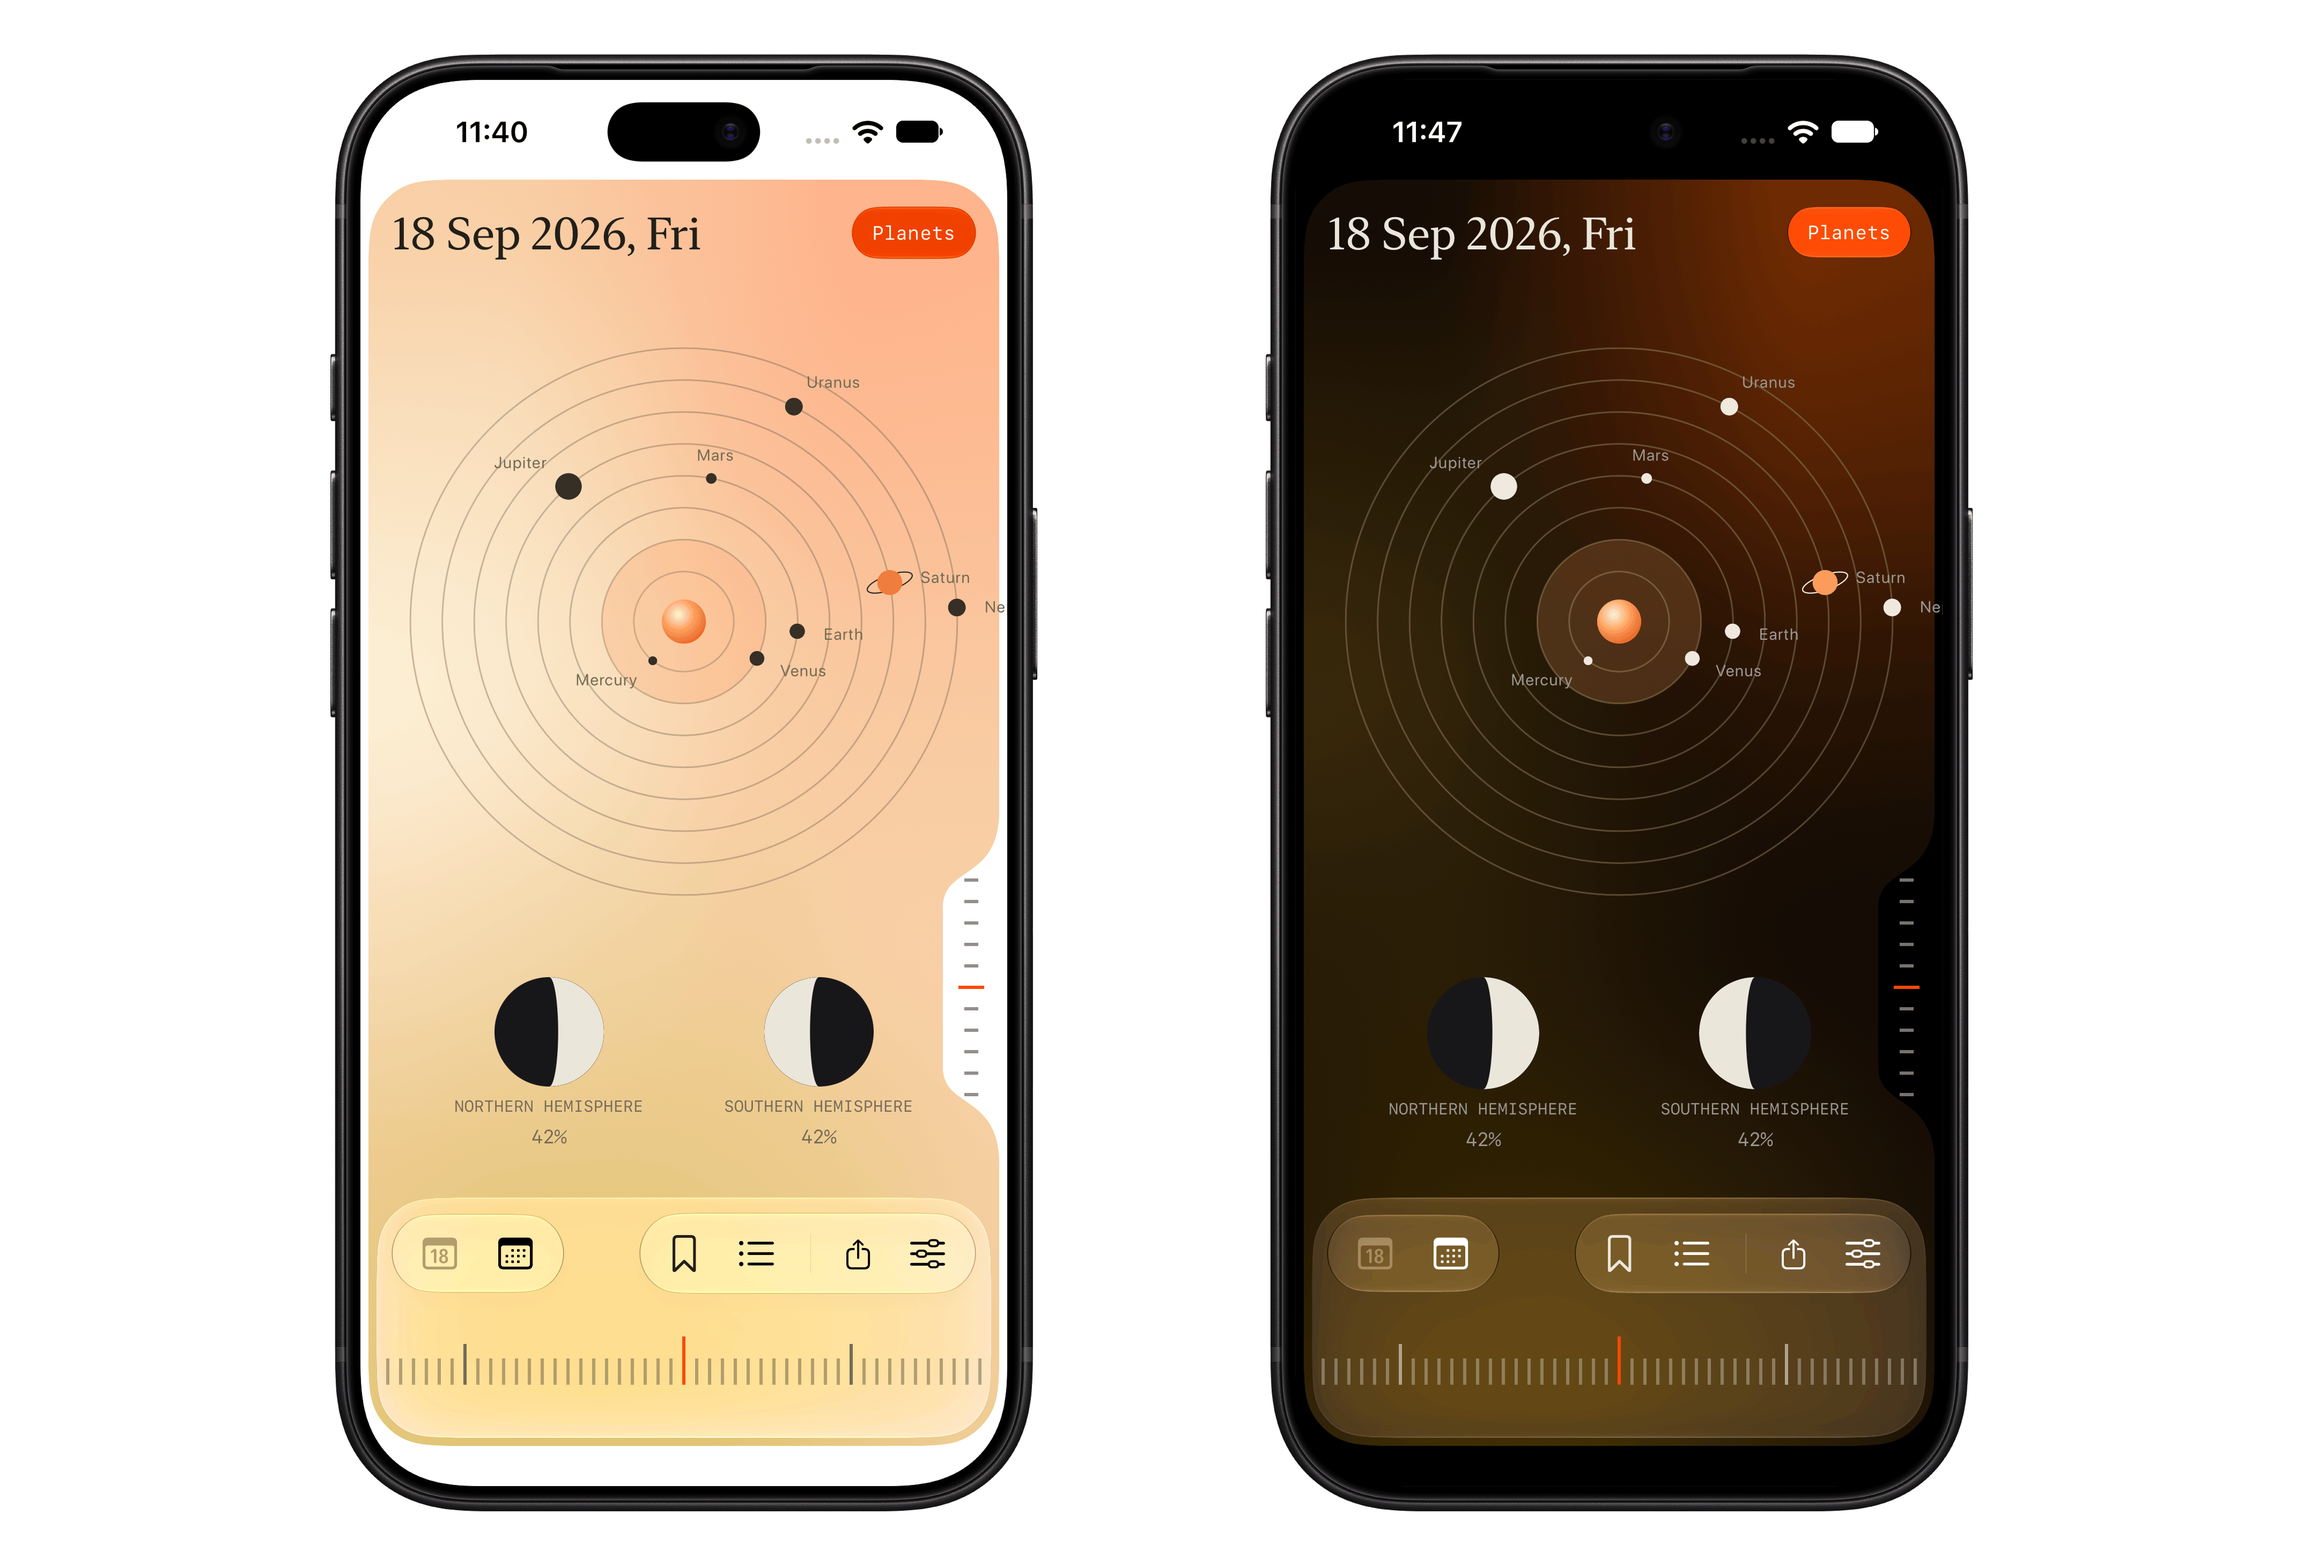
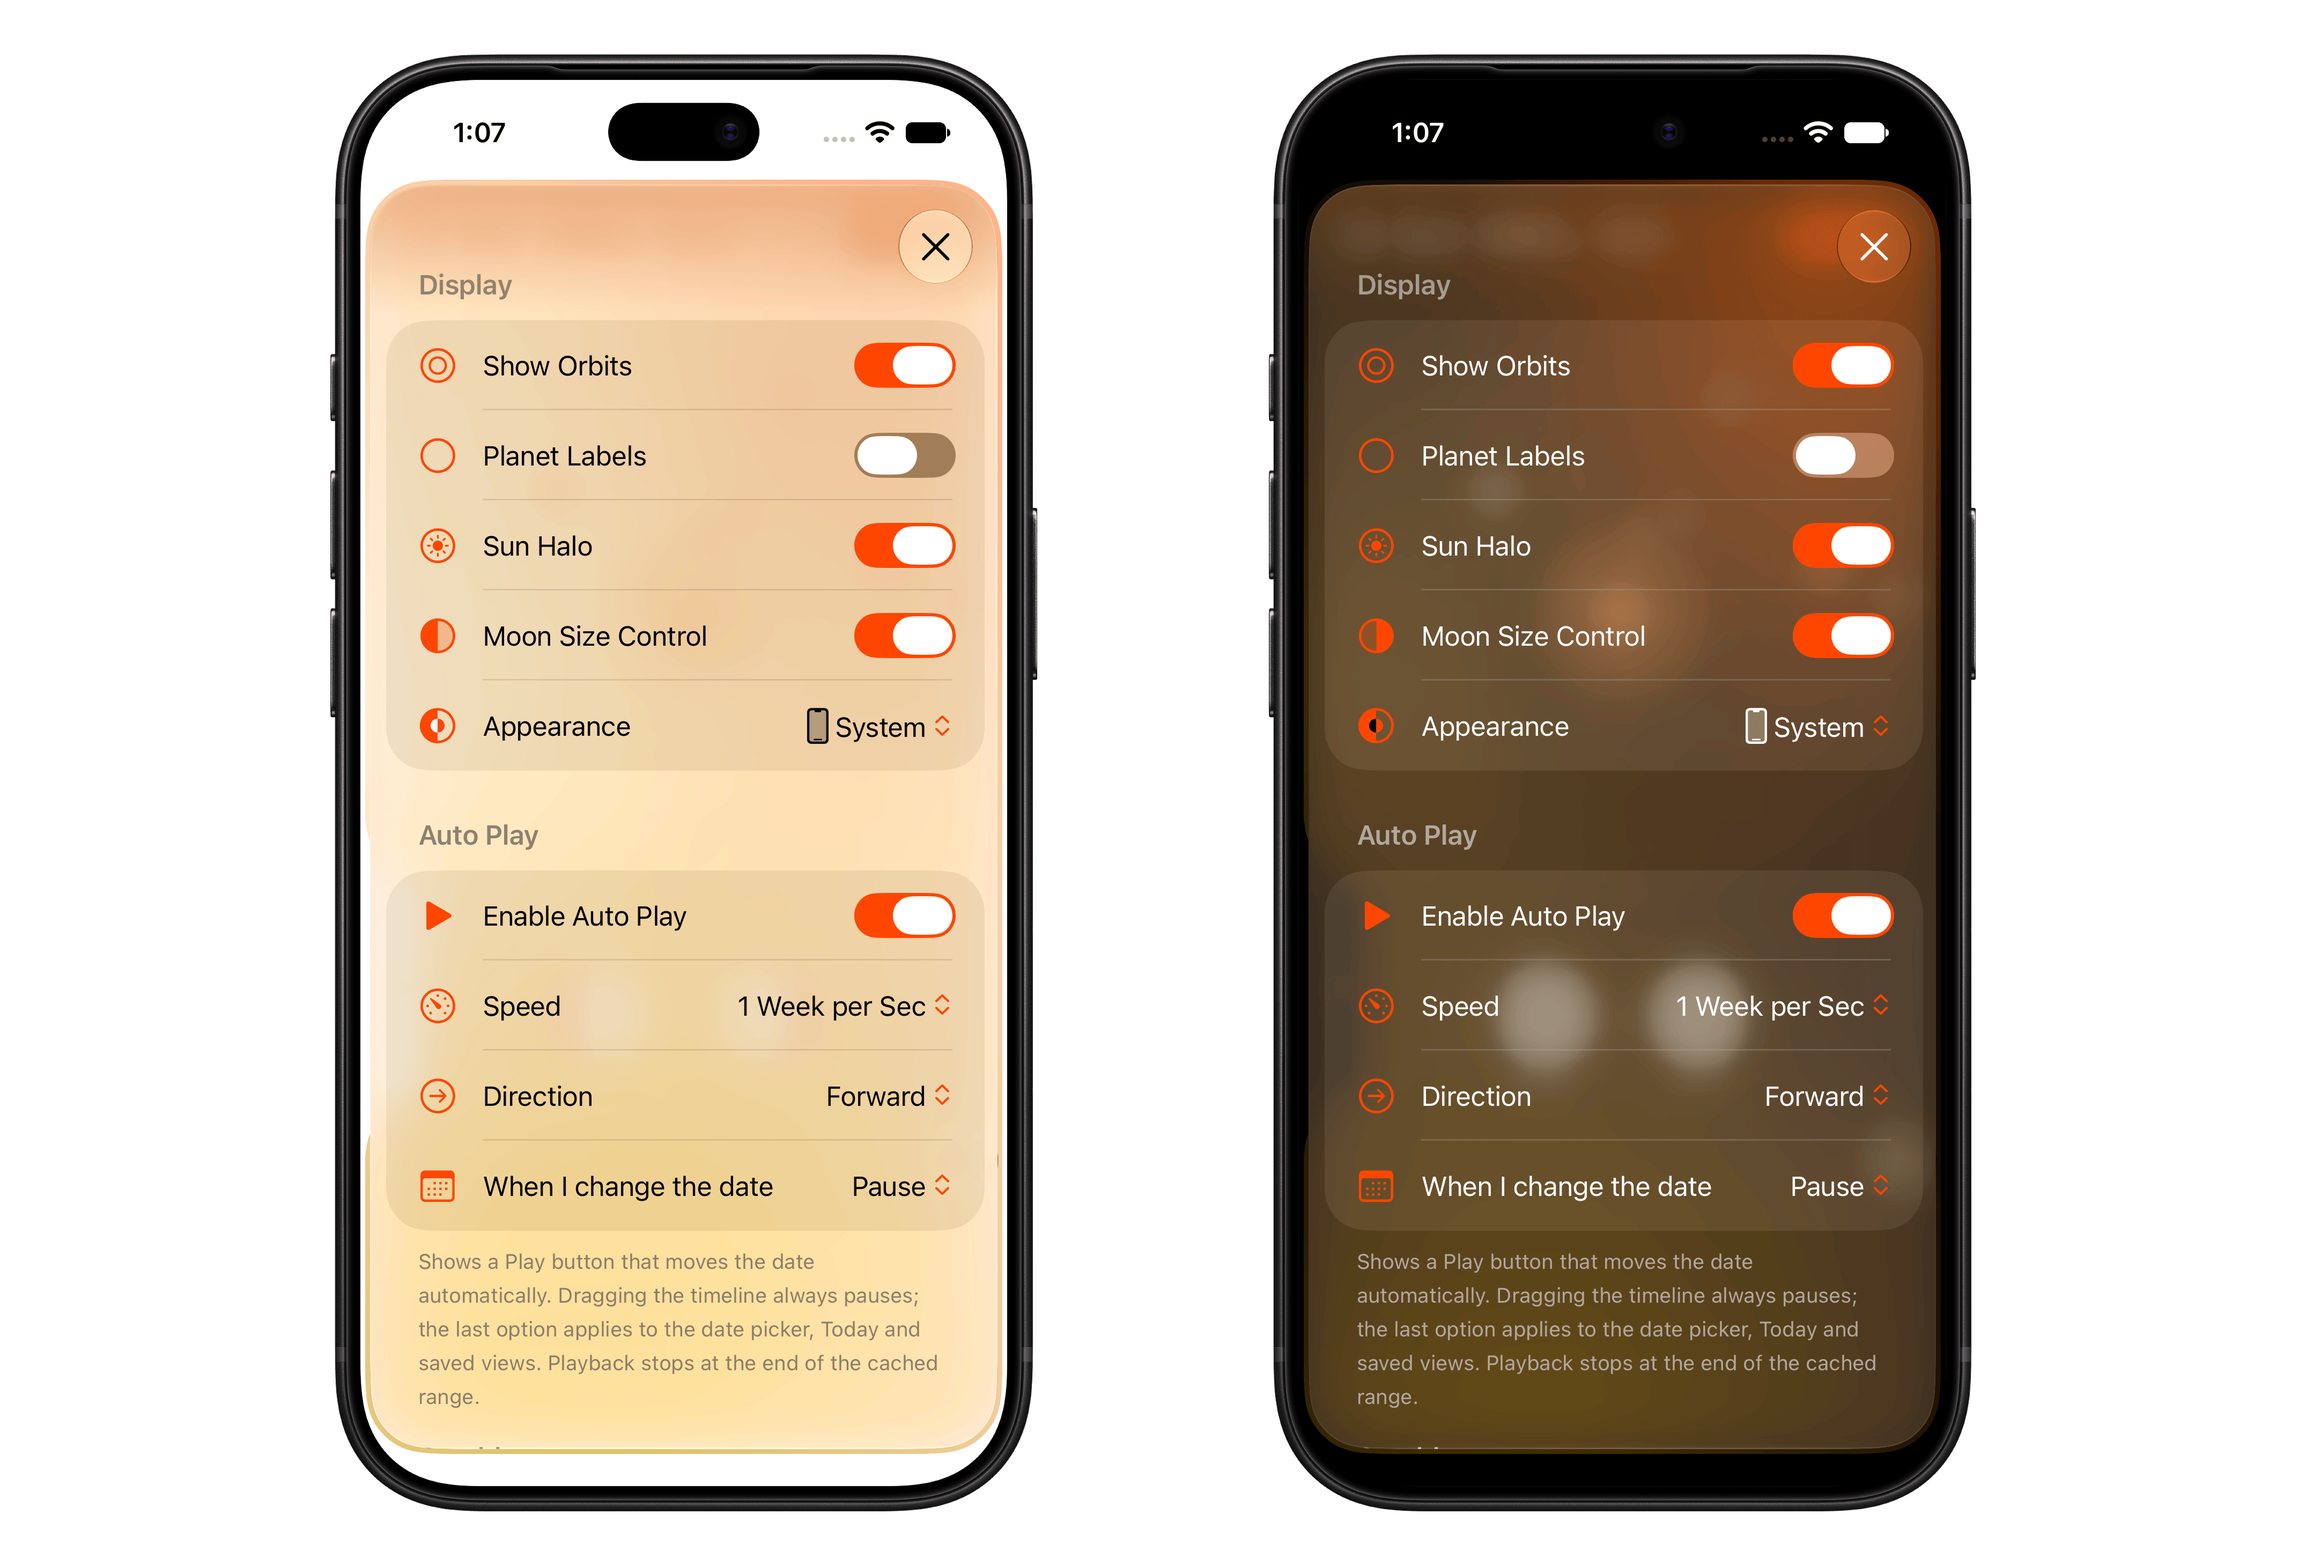
Update app screenshots in README; add new screenshot and reorder existing ones

diff --git a/README.md b/README.md
@@ -10,11 +10,15 @@
 ---
 
 <p align="center">
-  <img src="Assets/AppLook-1.png" alt="Orrery app screenshots" width="100%">
+  <img src="Assets/AppLook-2.png" alt="Orrery app screenshots" width="100%">
 </p>
 
 <p align="center">
   <img src="Assets/AppLook.png" alt="Orrery app screenshots" width="100%">
+</p>
+
+<p align="center">
+  <img src="Assets/AppLook-1.png" alt="Orrery app screenshots" width="100%">
 </p>
 
 ## About
